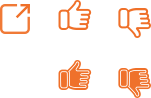
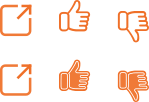
update frontend and hash for id_oth

diff --git a/paperstream/static/css/feeds.css b/paperstream/static/css/feeds.css
@@ -20,7 +20,7 @@
 }
 
 .paper-list {
-    padding: 10px;
+    padding: 5px;
     position: relative;
 }
 
@@ -36,6 +36,8 @@
 .compact {
     padding-right: 35px;
     padding-left: 35px;
+    padding-top: 10px;
+    padding-bottom: 10px;
 }
 
 .compact .title {
@@ -59,47 +61,47 @@
     display: none;
 }
 
-.stamps>span:before, .stamps>a:before {
+.stamps>a:before {
     content:"";
     display: inline-block;
-    background-image: url(../img/paper_feed_icons_h30_s60px_alpha.png);
+    background-image: url(../img/paper_feed_icons_h25_s60px_alpha.png);
     width: 50px;
-    height: 40px;
-    position: relative;
+    height: 50px;
+    /*position: relative;*/
     vertical-align: middle;
     background-repeat: no-repeat;
-    background-position-y: 5px;
+    background-position-y: 10px;
 }
 
-.stamps>span.open:before {
+.stamps>a.open:before {
     background-position-x: -175px;
 }
-.stamps>span.like:before {
+.stamps>a.like:before {
     background-position-x: -55px;
 }
-.stamps>span.dislike:before {
+.stamps>a.dislike:before {
     background-position-x: -115px;
 }
-.stamps>span.like:hover:before, .stamps>span.dislike:hover:before
+.stamps>a:hover:before
 {
-    background-position-y: -55px;
+    background-position-y: -50px;
 }
 
-.stamps>span.active:before {
-    background-position-y: -55px;
+.stamps>a.active:before {
+    background-position-y: -50px;
 }
 
 /* Stamps 2 */
 .compact .stamps-2 {
     position: absolute;
     top: 10px;
-    /*right: 10px;*/
-    left: -20px;
+    right: 10px;
+    /*left: -20px;*/
 }
 .compact .stamps-2>span:before {
     content:"";
     display: none;
-    background-image: url(../img/paper_feed_icons_h30_s60px_alpha.png);
+    background-image: url(../img/paper_feed_icons_h25_s60px_alpha.png);
     width: 50px;
     height: 40px;
     position: relative;
@@ -123,8 +125,9 @@
 .extended {
     display: none;
     background-color: #f1f1f1;
-    padding-left: 20px;
-    padding-right: 20px;
+    padding: 20px;
+    /*padding-left: 20px;*/
+    /*padding-right: 20px;*/
 }
 
 .extended .stamps {

diff --git a/paperstream/templates/feeds/feed_sub_page.html b/paperstream/templates/feeds/feed_sub_page.html
@@ -5,11 +5,11 @@
 {% for ufmp in ufmp_list %}
     <div class="paper-list">
         <div class="compact">
-            <div class="title">{{ ufmp.paper.title|truncatechars:90 }}</div>
+            <div class="title">{{ ufmp.paper.title|truncatechars:75 }}</div>
             <div class="authors-journal-date">
                 {% with ufmp.paper.print_full_authors|add:ufmp.paper.print_journal_title as str %}
-                {% if str|length > 90 %}
-                    <span class="authors">{{ ufmp.paper.print_full_authors|truncatechars:70 }}</span>
+                {% if str|length > 85 %}
+                    <span class="authors">{{ ufmp.paper.print_full_authors|truncatechars:65 }}</span>
                     {{ ufmp.paper.print_journal_title|truncatechars:20 }}
                     {{ ufmp.paper.print_year }}
                 {% else %}
@@ -34,11 +34,9 @@
             <div class="abstract">{{ ufmp.paper.abstract }}</div>
         </div>
         <span id="{{ ufmp.paper.pk }}" class="stamps">
-            <span class="like {% if user_taste|get_is_liked:ufmp.paper.pk %} active {% endif %}"></span>
-            <span class="dislike {% if user_taste|get_is_disliked:ufmp.paper.pk %} active {% endif %}"></span>
-            <a href="{% url 'library:paper' ufmp.paper.pk %}">
-                <span class="open"></span>
-            </a>
+            <a class="like {% if user_taste|get_is_liked:ufmp.paper.pk %} active {% endif %}" href="#"></a>
+            <a class="dislike {% if user_taste|get_is_disliked:ufmp.paper.pk %} active {% endif %}" href="#"></a>
+            <a class="open" href="{% url 'library:paper' ufmp.paper.pk %}"></a>
         </span>
     </div>
 {% endfor %}

diff --git a/paperstream/static/css/library.css b/paperstream/static/css/library.css
@@ -20,7 +20,7 @@
 }
 
 .paper-list {
-    padding: 10px;
+    padding: 5px;
 }
 
 .paper-list a {
@@ -44,6 +44,13 @@
 .paper-list .authors {
     text-decoration: None;
     color: #808080;
+}
+
+.compact {
+    padding-right: 35px;
+    padding-left: 35px;
+    padding-top: 10px;
+    padding-bottom: 10px;
 }
 
 .side-panel {
@@ -113,12 +120,14 @@
     padding-top: 10px;
 }
 
-.stamps>span:before, .stamps>a:before {
+.stamps>a:before {
     content:"";
     display: inline-block;
-    background-image: url(../img/paper_icons_h30_s60px.png);
-    width: 45px;
+    background-image: url(../img/paper_icons_h30_s80px.png);
+    width: 50px;
     height: 50px;
+    padding-left: 10px;
+    padding-right: 10px;
     position: relative;
     vertical-align: middle;
     background-repeat: no-repeat;
@@ -129,24 +138,20 @@
     background-position-x: -10px;
 }
 
-.stamps>span.like:before {
-    background-position-x: -50px;
+.stamps>a.like:before {
+    background-position-x: -70px;
 }
-.stamps>span.like:hover:before, .stamps>span.dislike:hover:before
-{
+
+.stamps>a.dislike:before {
+    background-position-x: -150px;
+}
+
+.stamps>a.active:before {
     background-position-y: -55px;
 }
 
-.stamps>span.dislike:before {
-    background-position-x: -110px;
-}
-
-.stamps>span.active:before {
+.stamps>a:hover:before {
     background-position-y: -55px;
-}
-
-.stamps:hover {
-    background-position-y: -80px;
 }
 
 .neighbors {

diff --git a/paperstream/templates/library/paper.html b/paperstream/templates/library/paper.html
@@ -64,8 +64,8 @@
                             <div class="stamps" id="{{ paper.pk }}">
                                 <a class="go-to" href="{{ paper.url }}" target="_blank"></a>
                                 {% if user.is_authenticated %}
-                                <span class="like {% if is_liked %} active {% endif %}"></span>
-                                <span class="dislike {% if is_disliked %} active {% endif %}"></span>
+                                <a class="like {% if is_liked %} active {% endif %}" href="#"></a>
+                                <a class="dislike {% if is_disliked %} active {% endif %}" href=#"></a>
                                 {% endif %}
                             </div>
                             <div class="neighbors">

diff --git a/paperstream/templates/user/library.html b/paperstream/templates/user/library.html
@@ -20,12 +20,12 @@
         <div class="library">
             <div class="row">
                 <div class="col-lg-11 col-lg-offset-1">
-                    <div class="col-md-8">
+                    <div class="col-md-9">
                         <div class="userlib">
                             {% include page_template %}
                         </div>
                     </div>
-                    <div class="col-md-3 hidden-sm">
+                    <div class="col-md-2 hidden-sm">
                         <div class="side-panel">
                             <div class="side-panel-title">My library statistics</div>
                             <div class="side-panel-inner">

diff --git a/paperstream/templates/feeds/feed.html b/paperstream/templates/feeds/feed.html
@@ -23,12 +23,12 @@
         <div class="feed">
             <div class="row">
                 <div class="col-lg-11 col-lg-offset-1">
-                    <div class="col-md-8">
+                    <div class="col-md-9">
                         <div class="userfeed">
                             {% include page_template %}
                         </div>
                     </div>
-                    <div class="col-md-3 hidden-sm">
+                    <div class="col-md-2 hidden-sm">
                         <div class="side-panel">
                             <div class="side-panel-title">Statistics</div>
                             <div class="side-panel-inner">

diff --git a/paperstream/templates/user/library_sub_page.html b/paperstream/templates/user/library_sub_page.html
@@ -4,6 +4,7 @@
 {% for ulp in ulp_list %}
     <a href="{% url 'library:paper' ulp.paper.pk %}">
         <div class="paper-list">
+        <div class="compact">
             <div class="title">{{ ulp.paper.title|truncatechars:85 }}</div>
             <div class="authors-journal-date">
                 {% with ulp.paper.print_full_authors|add:ulp.paper.print_journal_title as str %}
@@ -18,6 +19,7 @@
                 {% endif %}
                 {% endwith %}
             </div>
+        </div>
         </div>
     </a>
 {% endfor %}

diff --git a/paperstream/core/parsers.py b/paperstream/core/parsers.py
@@ -6,6 +6,7 @@ from paperstream.library.models import Paper, Journal, Author, CorpAuthor
 from paperstream.library.forms import PaperForm, JournalForm, AuthorForm, \
     CorpAuthorForm
 from abc import abstractmethod
+import hashlib
 
 
 class Parser(object):
@@ -67,5 +68,19 @@ class Parser(object):
         authors = self.parse_authors(entry)
         corp_authors = self.parse_corp_authors(entry)
 
+        # create id_oth based on parsed data if tagged accordingly
+        if paper['id_oth'] == 'to-be-generated':
+            paper['id_oth'] = 'gen' + self.generated_hash_id(paper,
+                                                             journal,
+                                                             authors)
+
         return {'journal': journal, 'authors': authors, 'paper': paper,
                 'corp_authors': corp_authors}
+
+    @staticmethod
+    def generated_hash_id(paper, journal, authors):
+        str_ = ''
+        str_ += paper['title']
+        str_ += ' '.join([author['last_name'] for author in authors])
+        str_ += journal.title
+        return hashlib.sha1(str_.encode('utf-8')).hexdigest()

diff --git a/paperstream/users/backends/parsers.py b/paperstream/users/backends/parsers.py
@@ -90,7 +90,7 @@ class ParserMendeley(ParserBackend):
 
         if not any([paper[key] for key in ['id_doi', 'id_pmi', 'id_pii',
                                            'id_arx', 'id_oth']]):
-            paper['id_oth'] = 'rand{0}'.format(self.id_oth_generator())
+            paper['id_oth'] = 'to-be-generated'
 
         # URL
         if entry.websites:
@@ -216,7 +216,7 @@ class ParserZotero(ParserBackend):
         # generate id_oth is no doi
         if not any([paper[key] for key in ['id_doi', 'id_pmi', 'id_pii',
                                            'id_arx', 'id_oth', 'id_isbn']]):
-            paper['id_oth'] = 'rand{0}'.format(self.id_oth_generator())
+            paper['id_oth'] = 'to-be-generated'
 
         # URL
         if entry.get('url', ''):

diff --git a/paperstream/library/tasks.py b/paperstream/library/tasks.py
@@ -8,6 +8,7 @@ from .models import Stats
 
 @app.task()
 def update_stats():
+    """Create a new line of stats for the library"""
     stats = Stats.objects.create()
     stats.update()
 
